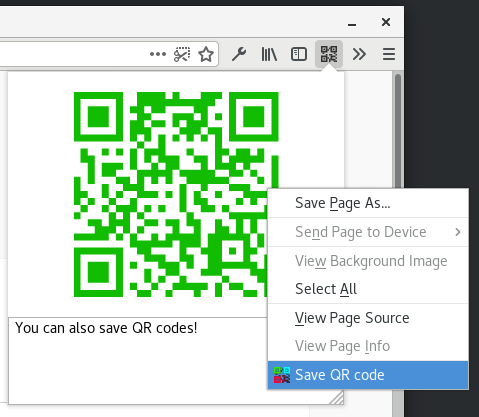
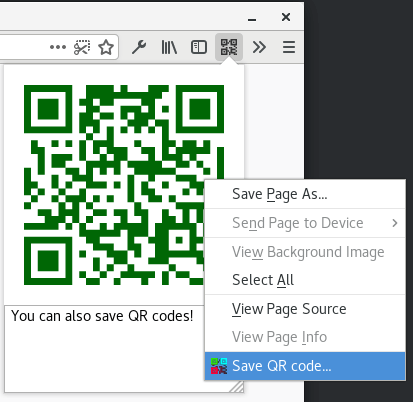
Add workarounds to make "saveAs" work in popup
Fixes https://github.com/rugk/offline-qr-code/issues/87

To do so, I had to send the file to the background script and add a
second workaround for destroying the object URL after it is saved.

diff --git a/src/background.js b/src/background.js
@@ -185,6 +185,74 @@ const ContextMenu = (function () {
     return me;
 })();
 
+// TODO: combine with module in qrcode.js as a new module?
+const BrowserCommunication = (function () {
+    const me = {};
+
+    const COMMUNICATION_MESSAGE_TYPE = Object.freeze({
+        SAVE_FILE_AS: "saveFileAs",
+    });
+
+    /**
+     * Handles messages received by other parts.
+     *
+     * @name   BrowserCommunication.handleMessages
+     * @function
+     * @private
+     * @param {Object} request
+     * @param {Object} sender
+     * @param {function} sendResponse
+     * @returns {Promise|null}
+     */
+    function handleMessages(request, sender, sendResponse) {
+        console.log("Got message", request, "from", sender);
+
+        // declararations here make sense
+        /* eslint-disable no-case-declarations */
+
+        switch (request.type) {
+        // workaround for https://bugzilla.mozilla.org/show_bug.cgi?id=1461134
+        case COMMUNICATION_MESSAGE_TYPE.SAVE_FILE_AS:
+            const objectUrl = URL.createObjectURL(request.file);
+
+            return browser.downloads.download({
+                url: objectUrl,
+                filename: request.filename,
+                saveAs: true
+            }).then(() => {
+                // send response
+                sendResponse();
+            }).finally(() => {
+                // clean-up
+                // workaround for https://bugzilla.mozilla.org/show_bug.cgi?id=1462926
+                setTimeout(() => {
+                    console.log("objectUrl revoked:", objectUrl);
+                    URL.revokeObjectURL(objectUrl);
+                }, 5000);
+            });
+        }
+        /* eslint-enable no-case-declarations */
+
+        return null;
+    }
+
+    /**
+     * Init context menu module.
+     *
+     * Adds menu elements.
+     *
+     * @name   BrowserCommunication.init
+     * @function
+     * @returns {void}
+     */
+    me.init = function() {
+        browser.runtime.onMessage.addListener(handleMessages);
+    };
+
+    return me;
+})();
+
 // init modules
 IconHandler.init();
 ContextMenu.init();
+BrowserCommunication.init();

diff --git a/src/popup/qrcode.js b/src/popup/qrcode.js
@@ -819,19 +819,16 @@ const UserInterface = (function () {
             const svgString = (new XMLSerializer()).serializeToString(svgElem);
 
             const file = new File([svgString], "qrcode.svg", {type: "image/svg+xml;charset=utf-8"});
-            const newObject = URL.createObjectURL(file);
-            browser.downloads.download({
-                url: newObject,
-                filename: "qrcode.svg",
-                // saveAs currently impossible, as this closes the popup and thus
-                // destroys the element it just tried to download
-                // bug:
-                saveAs: false
-            }).finally(() => {
-                // clean-up
-                URL.revokeObjectURL(file);
 
+            browser.runtime.sendMessage({
+                type: "saveFileAs",
+                file: file,
+                filename: "qrcode.svg",
+            }).then(() => {
                 Logger.logInfo("SVG image saved on disk", svgElem, svgString);
+            }).catch(() => {
+                Logger.logError("Could not save SVG image saved on disk", svgElem, svgString);
+                MessageHandler.showError("errorDownloadingFile", true);
             });
         });
     }
@@ -957,7 +954,7 @@ const BrowserCommunication = (function () {
     const me = {};
 
     const COMMUNICATION_MESSAGE_TYPE = Object.freeze({
-        "SET_QR_TEXT": "setQrText",
+        SET_QR_TEXT: "setQrText",
     });
 
     let overwroteQrCode = false;
@@ -970,7 +967,7 @@ const BrowserCommunication = (function () {
      * @private
      * @param {Object} request
      * @param {Object} sender
-     * @returns {HTMLElement}
+     * @returns {void}
      */
     function handleMessages(request, sender) {
         Logger.logInfo("Got message", request, "from", sender);
